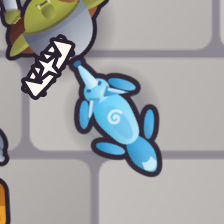
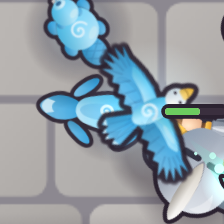
caster19: docs for the clip check

diff --git a/docs/caster19.md b/docs/caster19.md
@@ -80,7 +80,7 @@ up"; the trait: "Don't like the dirtied effect visual".
 - **Monstrosity** ("Should not hold a flask. It will be alternating punch attacks. Not claws. High knock back. They
   should have fast movement speed. Don't like visual. They should get a new altered sprite ... Purple skin. ... Should be
   shown drinking a purple tube flask first"): they stop and drink a purple tube (0.55 s, tipped to the mouth, its level
-  going down, bubbles fizzing), then become art/heroes/alchemist-monster.svg (their own picture, purple skin, fists half
+  going down, bubbles fizzing), then become art/heroes/alchemist-monster.svg (their own picture, purple skin, fists nearly twice
   as big again, no tube; a sketch for the art round, made by tools/caster19/alchemist_art.py), punching left and right in
   turn (fxkit 'fist': a purple thump where the knuckles land), knock back 320 (was 160), moving 60% faster (was 25%).
   The rest as it was.
@@ -187,3 +187,22 @@ lane), tier III, 24 parties: the Digger 7.33 -> 8.08 rooms (Dirt Fling +1.21 -> 
 -> +1.38): about level, a little up; the Witch 8.67 -> 7.92 (Broom Ride +0.92 -> -0.33: being seen and shot up there
 costs it), so Broom Ride's cooldown went 11 -> 10 on top of the bombs' 0.9 -> 1.0 (worth-witch-final.txt).
 After that: the Witch 8.71 rooms (main 8.67), Broom Ride +0.58: level again.
+
+## The clip check (round 19, after the first report)
+An independent frame-by-frame check of the clips found notes they didn't show. Changed:
+- **Sheaves**: planted round Grandpa on the side the enemy comes from, 55-150 out (they were thrown to the fight's middle
+  and trampled at once); enemies break one only with a blow, friends by treading on it.
+- **The spirit wolf** redrawn lean: legs out in a stride, a long bushy tail with a pale tip, tall pointed ears, a long
+  tapering muzzle, a darker saddle; drawn at 0.8 of the box. **The eagle**: a white head, five finger feathers spread at
+  each wing tip, a fanned tail with pale tips.
+- **Monstrosity**: fists nearly twice as big (alchemist-monster.svg), each punch a knuckled purple thump with thick strokes.
+- **Brew Pools**: the brews come out of a shuffled rack of the six (a cast's flasks all differ; the next cast throws the rest).
+- **Harvest**: the sweep's band runs the whole circle behind the blade, then the swept circle fades.
+- **Spade**: its arc earth-brown; the three clods come out of one spot on the far side of each foe hit and fan out, with a
+  spurt of dirt; the thwack rides on the foe. **Dirt knocked off** flies out of the far side, away from the blow (a fan).
+- **Spirit Link**: up to n friends besides him (one in reach went without a thread); motes and pulses teal.
+- **Broom Ride**: the handle runs well out past her front; her circle kept off the top wall so all of her stays in the room.
+- **Bury**: no hit star (the mound is the impact).
+- Clips (tools/caster19/bookclips.mjs) follow the hero (or the clip's subject); stills of the new art at game size in
+  design/caster19/stills/.
+- Bread Toss II throws two loaves at once on purpose (one each for two friends; his own goes up and down).
